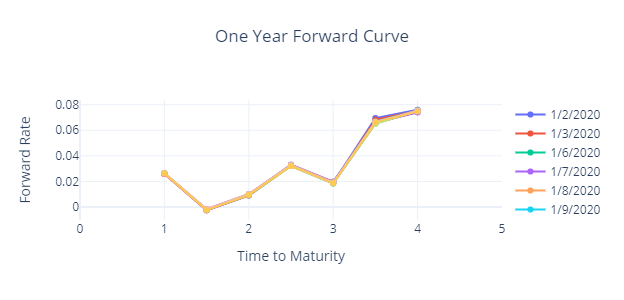
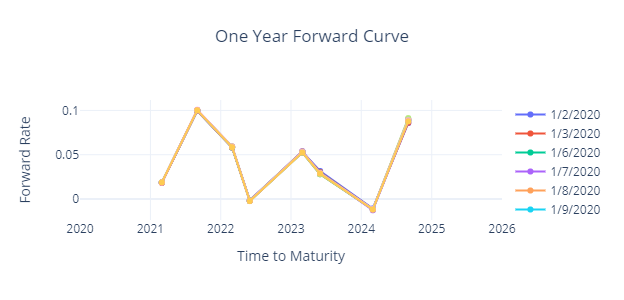
Gave up

diff --git a/Analysis.py b/Analysis.py
@@ -9,6 +9,7 @@ import pandas as pd
 from datetime import datetime
 import plotly.graph_objects as go
 import numpy as np
+from scipy import optimize
 
 # import data
 maturity_df = pd.read_csv('maturity_df.csv')[:-1]
@@ -24,8 +25,7 @@ validIsin = ['CA135087D929',
              'CA135087J546',
              'CA135087J967',
              'CA135087K528',
-             'CA135087D507',
-             'CA135087E679']
+             'CA135087D507']
 
 validIsin = [str.lower(i) for i in validIsin]
 
@@ -37,82 +37,127 @@ dateRange.reverse()
 
 yieldBonds.maturity = [int(datetime.strptime(i, '%Y-%m-%d %H:%M').strftime('%y%m%d')) for i in yieldBonds.maturity]
 
-# =============================================================================
-# interpolate to solve for market price and cashflow for Sept 2022,2023,2025
-# =============================================================================
-
-# base sep2022 data on jun2022 
-sep2022 = yieldBonds.loc[yieldBonds.maturity == 220601].reset_index(drop = True)
-
-# change the maturity date
-sep2022['maturity'] = [220901 for i in range(len(sep2022))]
-mar2023 = yieldBonds.loc[yieldBonds.maturity == 230301].reset_index(drop = True)
-
-# linearly interpolate price and coupon rate between jun 2022 and mar2023
-weight = 1/3
-for i in range(len(sep2022)):
-    sep2022.loc[i,'pClose'] = (weight*sep2022.loc[i,'pClose']+(1-weight)*mar2023.loc[i,'pClose'])
-    sep2022.loc[i,'couponRate'] = (weight*sep2022.loc[i,'couponRate']+(1-weight)*mar2023.loc[i,'couponRate'])
-
-# repeat similar process for sep2023
-sep2023 = yieldBonds.loc[yieldBonds.maturity == 230601].reset_index(drop = True)
-sep2023['maturity'] = [230901 for i in range(len(sep2023))]
-mar2024 = yieldBonds.loc[yieldBonds.maturity == 240301].reset_index(drop = True)
-for i in range(len(sep2023)):
-    sep2023.loc[i,'pClose'] = (weight*sep2023.loc[i,'pClose']+(1-weight)*mar2024.loc[i,'pClose'])
-    sep2023.loc[i,'couponRate'] = (weight*sep2023.loc[i,'couponRate']+(1-weight)*mar2024.loc[i,'couponRate'])
-
-# repeat similar process for sep2025
-weight = 1/4
-sep2025 = yieldBonds.loc[yieldBonds.maturity == 250601].reset_index(drop = True)
-sep2025['maturity'] = [250901 for i in range(len(sep2025))]
-jun2026 = yieldBonds.loc[yieldBonds.maturity == 260601].reset_index(drop = True)
-for i in range(len(sep2025)):
-    sep2025.loc[i,'pClose'] = (weight*sep2025.loc[i,'pClose']+(1-weight)*jun2026.loc[i,'pClose'])
-    sep2025.loc[i,'couponRate'] = (weight*sep2025.loc[i,'couponRate']+(1-weight)*jun2026.loc[i,'couponRate'])
-
-
-# remove jun2022 and jun2023 data
-yieldBonds = yieldBonds[~yieldBonds.maturity.isin([220601,230601,250601,260601])].reset_index(drop = True)
-yieldBonds = pd.concat([yieldBonds, sep2022,sep2023,sep2025],axis = 0)
-yieldBonds = yieldBonds.sort_values(by = 'maturity')
+t1 = datetime.date((datetime.strptime('2020-02-02 0:00', '%Y-%m-%d %H:%M')))
 
 # =============================================================================
-# calculate yield rate for each data point for each market date and plot it
+# # =============================================================================
+# # interpolate to solve for market price and cashflow for Sept 2022,2023,2025
+# # =============================================================================
+# 
+# # base sep2022 data on jun2022 
+# sep2022 = yieldBonds.loc[yieldBonds.maturity == 220601].reset_index(drop = True)
+# 
+# # change the maturity date
+# sep2022['maturity'] = [220901 for i in range(len(sep2022))]
+# mar2023 = yieldBonds.loc[yieldBonds.maturity == 230301].reset_index(drop = True)
+# 
+# # linearly interpolate price and coupon rate between jun 2022 and mar2023
+# weight = 1/3
+# for i in range(len(sep2022)):
+#     sep2022.loc[i,'pClose'] = (weight*sep2022.loc[i,'pClose']+(1-weight)*mar2023.loc[i,'pClose'])
+#     sep2022.loc[i,'couponRate'] = (weight*sep2022.loc[i,'couponRate']+(1-weight)*mar2023.loc[i,'couponRate'])
+# 
+# # repeat similar process for sep2023
+# sep2023 = yieldBonds.loc[yieldBonds.maturity == 230601].reset_index(drop = True)
+# sep2023['maturity'] = [230901 for i in range(len(sep2023))]
+# mar2024 = yieldBonds.loc[yieldBonds.maturity == 240301].reset_index(drop = True)
+# for i in range(len(sep2023)):
+#     sep2023.loc[i,'pClose'] = (weight*sep2023.loc[i,'pClose']+(1-weight)*mar2024.loc[i,'pClose'])
+#     sep2023.loc[i,'couponRate'] = (weight*sep2023.loc[i,'couponRate']+(1-weight)*mar2024.loc[i,'couponRate'])
+# 
+# # repeat similar process for sep2025
+# weight = 1/4
+# sep2025 = yieldBonds.loc[yieldBonds.maturity == 250601].reset_index(drop = True)
+# sep2025['maturity'] = [250901 for i in range(len(sep2025))]
+# jun2026 = yieldBonds.loc[yieldBonds.maturity == 260601].reset_index(drop = True)
+# for i in range(len(sep2025)):
+#     sep2025.loc[i,'pClose'] = (weight*sep2025.loc[i,'pClose']+(1-weight)*jun2026.loc[i,'pClose'])
+#     sep2025.loc[i,'couponRate'] = (weight*sep2025.loc[i,'couponRate']+(1-weight)*jun2026.loc[i,'couponRate'])
+# 
+# 
+# # remove jun2022 and jun2023 data
+# yieldBonds = yieldBonds[~yieldBonds.maturity.isin([220601,230601,250601,260601])].reset_index(drop = True)
+# yieldBonds = pd.concat([yieldBonds, sep2022,sep2023,sep2025],axis = 0)
+# yieldBonds = yieldBonds.sort_values(by = 'maturity')
 # =============================================================================
 
-# we will store the yield rates of every day in a dictionary
-# this saves us from needing to recalculate further on
+# =============================================================================
+# yield curve (solve for YTM as IRR)
+# =============================================================================
 
-dailyYield = {}
+def xnpv(rate,cashflows):
+    """
+    Calculate the net present value of a series of cashflows at irregular intervals.
+    Arguments
+    ---------
+    * rate: the discount rate to be applied to the cash flows
+    * cashflows: a list object in which each element is a tuple of the form (date, amount), where date is a python datetime.date object and amount is an integer or floating point number. Cash outflows (investments) are represented with negative amounts, and cash inflows (returns) are positive amounts.
+    
+    Returns
+    -------
+    * returns a single value which is the NPV of the given cash flows.
+    Notes
+    ---------------
+    * The Net Present Value is the sum of each of cash flows discounted back to the date of the first cash flow. The discounted value of a given cash flow is A/(1+r)**(t-t0), where A is the amount, r is the discout rate, and (t-t0) is the time in years from the date of the first cash flow in the series (t0) to the date of the cash flow being added to the sum (t).  
+    * This function is equivalent to the Microsoft Excel function of the same name. 
+    """
+
+    chron_order = sorted(cashflows, key = lambda x: x[0])
+    t0 = chron_order[0][0] #t0 is the date of the first cash flow
+
+    return sum([cf/(1+rate)**((t-t0).days/365.0) for (t,cf) in chron_order])
+
+def xirr(cashflows,guess=0.1):
+    """
+    Calculate the Internal Rate of Return of a series of cashflows at irregular intervals.
+    Arguments
+    ---------
+    * cashflows: a list object in which each element is a tuple of the form (date, amount), where date is a python datetime.date object and amount is an integer or floating point number. Cash outflows (investments) are represented with negative amounts, and cash inflows (returns) are positive amounts.
+    * guess (optional, default = 0.1): a guess at the solution to be used as a starting point for the numerical solution. 
+    Returns
+    --------
+    * Returns the IRR as a single value
+    
+    Notes
+    ----------------
+    * The Internal Rate of Return (IRR) is the discount rate at which the Net Present Value (NPV) of a series of cash flows is equal to zero. The NPV of the series of cash flows is determined using the xnpv function in this module. The discount rate at which NPV equals zero is found using the secant method of numerical solution. 
+    * This function is equivalent to the Microsoft Excel function of the same name.
+    * For users that do not have the scipy module installed, there is an alternate version (commented out) that uses the secant_method function defined in the module rather than the scipy.optimize module's numerical solver. Both use the same method of calculation so there should be no difference in performance, but the secant_method function does not fail gracefully in cases where there is no solution, so the scipy.optimize.newton version is preferred.
+    """
+    
+    #return secant_method(0.0001,lambda r: xnpv(r,cashflows),guess)
+    return optimize.newton(lambda r: xnpv(r,cashflows),guess)
 
 fig = go.Figure()
+dailyYield = {}
 
 for date in dateRange:
     bonds = yieldBonds[yieldBonds.date == date].reset_index(drop = True)
-    x = range(0,11)
-    x = [i/2 for i in x]
+    d = [datetime.date(datetime.strptime(str(i), '%y%m%d')) for i in bonds.maturity]
+    d = [t1] + d
 
+    x = [datetime.strptime(str(i), '%y%m%d') for i in bonds.maturity]
     yieldRate = []
     
-    runningSum = 0
-   
-    for i in range(0,len(bonds)-1):
-        couponRate = bonds.loc[i+1,'couponRate']/100
+    for i in range(0,len(bonds)):
         notional = 1000
-        marketPrice = bonds.loc[i,'pClose']/100 * notional
-        timeToMaturity = (1+(6*i))/12
-        newYield = -np.log((marketPrice - runningSum)/notional)/timeToMaturity
+        marketPrice = [-bonds.loc[i,'pClose']/100 * notional]
+        couponRate = bonds.loc[i,'couponRate']/100
+        coupons = [notional*couponRate] * (i)    
+        cashflow = marketPrice + coupons + [notional]
+        values = [(a,b) for a,b in zip(d[:len(cashflow)],cashflow)]
+        
+        newYield = xirr(values, 0.1)
         yieldRate.append(newYield)
-        runningSum += notional * couponRate * np.exp(-yieldRate[i]*timeToMaturity)
     
-    dailyYield[date]=yieldRate        
+    dailyYield[date] = yieldRate
+
     fig.add_trace(go.Scatter(x=x, y=yieldRate,
                     mode='lines + markers',
                     name=date))
     
     fig.update_layout(title = {
-            'text':"5 Year Yield Curve",
+            'text':"5 Year Yield Curve - Gov't of Canada Bonds",
             'y':0.9,
             'x':0.5,
             'xanchor':'center',
@@ -121,47 +166,52 @@ for date in dateRange:
                yaxis_title = 'Yield Rate',
                template = 'plotly_white'
                )
-    fig.update_xaxes(dtick =1, rangemode = 'tozero', range = [0,5])
-    
+    fig.update_xaxes(range = [datetime.strptime(str(200101), '%y%m%d'),datetime.strptime(str(260101), '%y%m%d')])
 
-#fig.show()
+    
+fig.show()
 fig.write_image("5 Year Yield Curve.png", width = 624, height = 300)
+
 dailyYield = pd.DataFrame(dailyYield)
 
 # =============================================================================
-# calculate the spot rate for each maturity date and plot it
+# bootstrap the spot rate for each data point for each market date and plot it
 # =============================================================================
 
-fig2 = go.Figure()
+# we will store the yield rates of every day in a dictionary
+# this saves us from needing to recalculate further on
+
+dailySpot = {}
+
+fig = go.Figure()
 
 for date in dateRange:
-    
     bonds = yieldBonds[yieldBonds.date == date].reset_index(drop = True)
-#    x_maturity = bonds['maturity']
-#    x_maturity = [datetime.strptime(str(i),'%y%m%d') for i in x_maturity]
-    x = range(0,11)
-    x = [i/2 for i in x]
+    x = [datetime.strptime(str(i), '%y%m%d') for i in bonds.maturity]
+
+    timesToMaturity = [abs((datetime.date(datetime.strptime(str(i), '%y%m%d'))-t1).days)/365.25 for i in bonds.maturity]
+
     spotRate = []
-    firstSpot = yieldRate[0]
-    firstCoupon = 1000 * bonds.loc[1,'couponRate']/100
-    spotRate.append(firstSpot)
-    runningSum = firstCoupon * np.exp(-spotRate[0]*(1/2))
     
-    for i in range(1,len(bonds)-1):
-        couponRate = bonds.loc[i+1,'couponRate']/100
+    for i in range(0,len(bonds)):
         notional = 1000
         marketPrice = bonds.loc[i,'pClose']/100 * notional
-        timeToMaturity = 1/2
-        newSpot = (((notional/(marketPrice - runningSum))**(1/(i+1)))-1)/timeToMaturity
+        couponRate = bonds.loc[i,'couponRate']/100
+        timeToMaturity = timesToMaturity[i]
+        coupons = [notional*couponRate] * (i)    
+        discount = [np.exp(-i*j) for i,j in zip(spotRate, timesToMaturity[:len(spotRate)])]
+        cashflow = np.multiply(coupons,discount)
+        newSpot = -np.log((marketPrice - sum(cashflow))/(notional))/(timeToMaturity)
+        
         spotRate.append(newSpot)
-        runningSum += notional * couponRate * np.exp(-spotRate[i]*timeToMaturity)
-     
-    fig2.add_trace(go.Scatter(x=x, y=spotRate,
+    
+    dailySpot[date]=spotRate        
+    fig.add_trace(go.Scatter(x=x, y=spotRate,
                     mode='lines + markers',
                     name=date))
     
-    fig2.update_layout(title = {
-            'text':"5 Year Spot Curve",
+    fig.update_layout(title = {
+            'text':"5 Year Spot Rate Curve - Gov't of Canada Bonds",
             'y':0.9,
             'x':0.5,
             'xanchor':'center',
@@ -170,11 +220,13 @@ for date in dateRange:
                yaxis_title = 'Spot Rate',
                template = 'plotly_white'
                )
-    fig2.update_xaxes(dtick =1, rangemode = 'tozero', range = [0,5])
+    fig.update_xaxes(range = [datetime.strptime(str(200101), '%y%m%d'),datetime.strptime(str(260101), '%y%m%d')])
 
 
-#fig2.show()
-fig2.write_image("5 Year Spot Curve.png", width = 624, height = 300)
+fig.show()
+fig.write_image("5 Year Spot Curve.png", width = 624, height = 300)
+dailySpot = pd.DataFrame(dailySpot)
+
 # =============================================================================
 # calculate the forward rate for each matury date and plot it
 # =============================================================================
@@ -187,8 +239,7 @@ fig3 = go.Figure()
 for date in dateRange:
     
     bonds = yieldBonds[yieldBonds.date == date].reset_index(drop = True)
-    x = range(2,11)
-    x = [i/2 for i in x]
+    x = [datetime.strptime(str(i), '%y%m%d') for i in bonds.maturity]
 
     yieldRate = list(dailyYield[date])    
     fwdRate = []
@@ -196,14 +247,14 @@ for date in dateRange:
     for i in range(2,len(yieldRate)-2):
         y1 = yieldRate[i]
         y2 = yieldRate[i+2]
-        t1 = (1+(6*i))/2
-        t2 = (1+(6*(i+2)))/2
+        t1 = timesToMaturity[i]
+        t2 = timesToMaturity[i+2]
         newFwd = ((y2*t2)-(y1*t1))/(t2-t1)
         fwdRate.append(newFwd)
     
     dailyFwd[date]=fwdRate
      
-    fig3.add_trace(go.Scatter(x=x, y=fwdRate,
+    fig3.add_trace(go.Scatter(x=x[2:], y=fwdRate,
                     mode='lines + markers',
                     name=date))
     
@@ -217,11 +268,13 @@ for date in dateRange:
                yaxis_title = 'Forward Rate',
                template = 'plotly_white'
                )
-    fig3.update_xaxes(dtick =1, rangemode = 'tozero', range = [0,5])
+    
+    fig3.update_xaxes(range = [datetime.strptime(str(200101), '%y%m%d'),datetime.strptime(str(260101), '%y%m%d')])
+
 
 dailyFwd = pd.DataFrame(dailyFwd)
 
-#fig3.show()
+fig3.show()
 fig3.write_image("5 Year Forward Curve.png", width = 624, height = 300)
 
 # =============================================================================
@@ -238,7 +291,6 @@ for i in range(2,11,2):
         ind = int(i/2)-1
         yCov[ind,j]=np.log(yields[j+1]/yields[j])
 
-
 pd.DataFrame(np.cov(yCov))
 
 fCov = np.empty([4,9])
@@ -251,5 +303,6 @@ for i in range(0,7,2):
 
 pd.DataFrame(np.cov(fCov))
         
+
 
 
